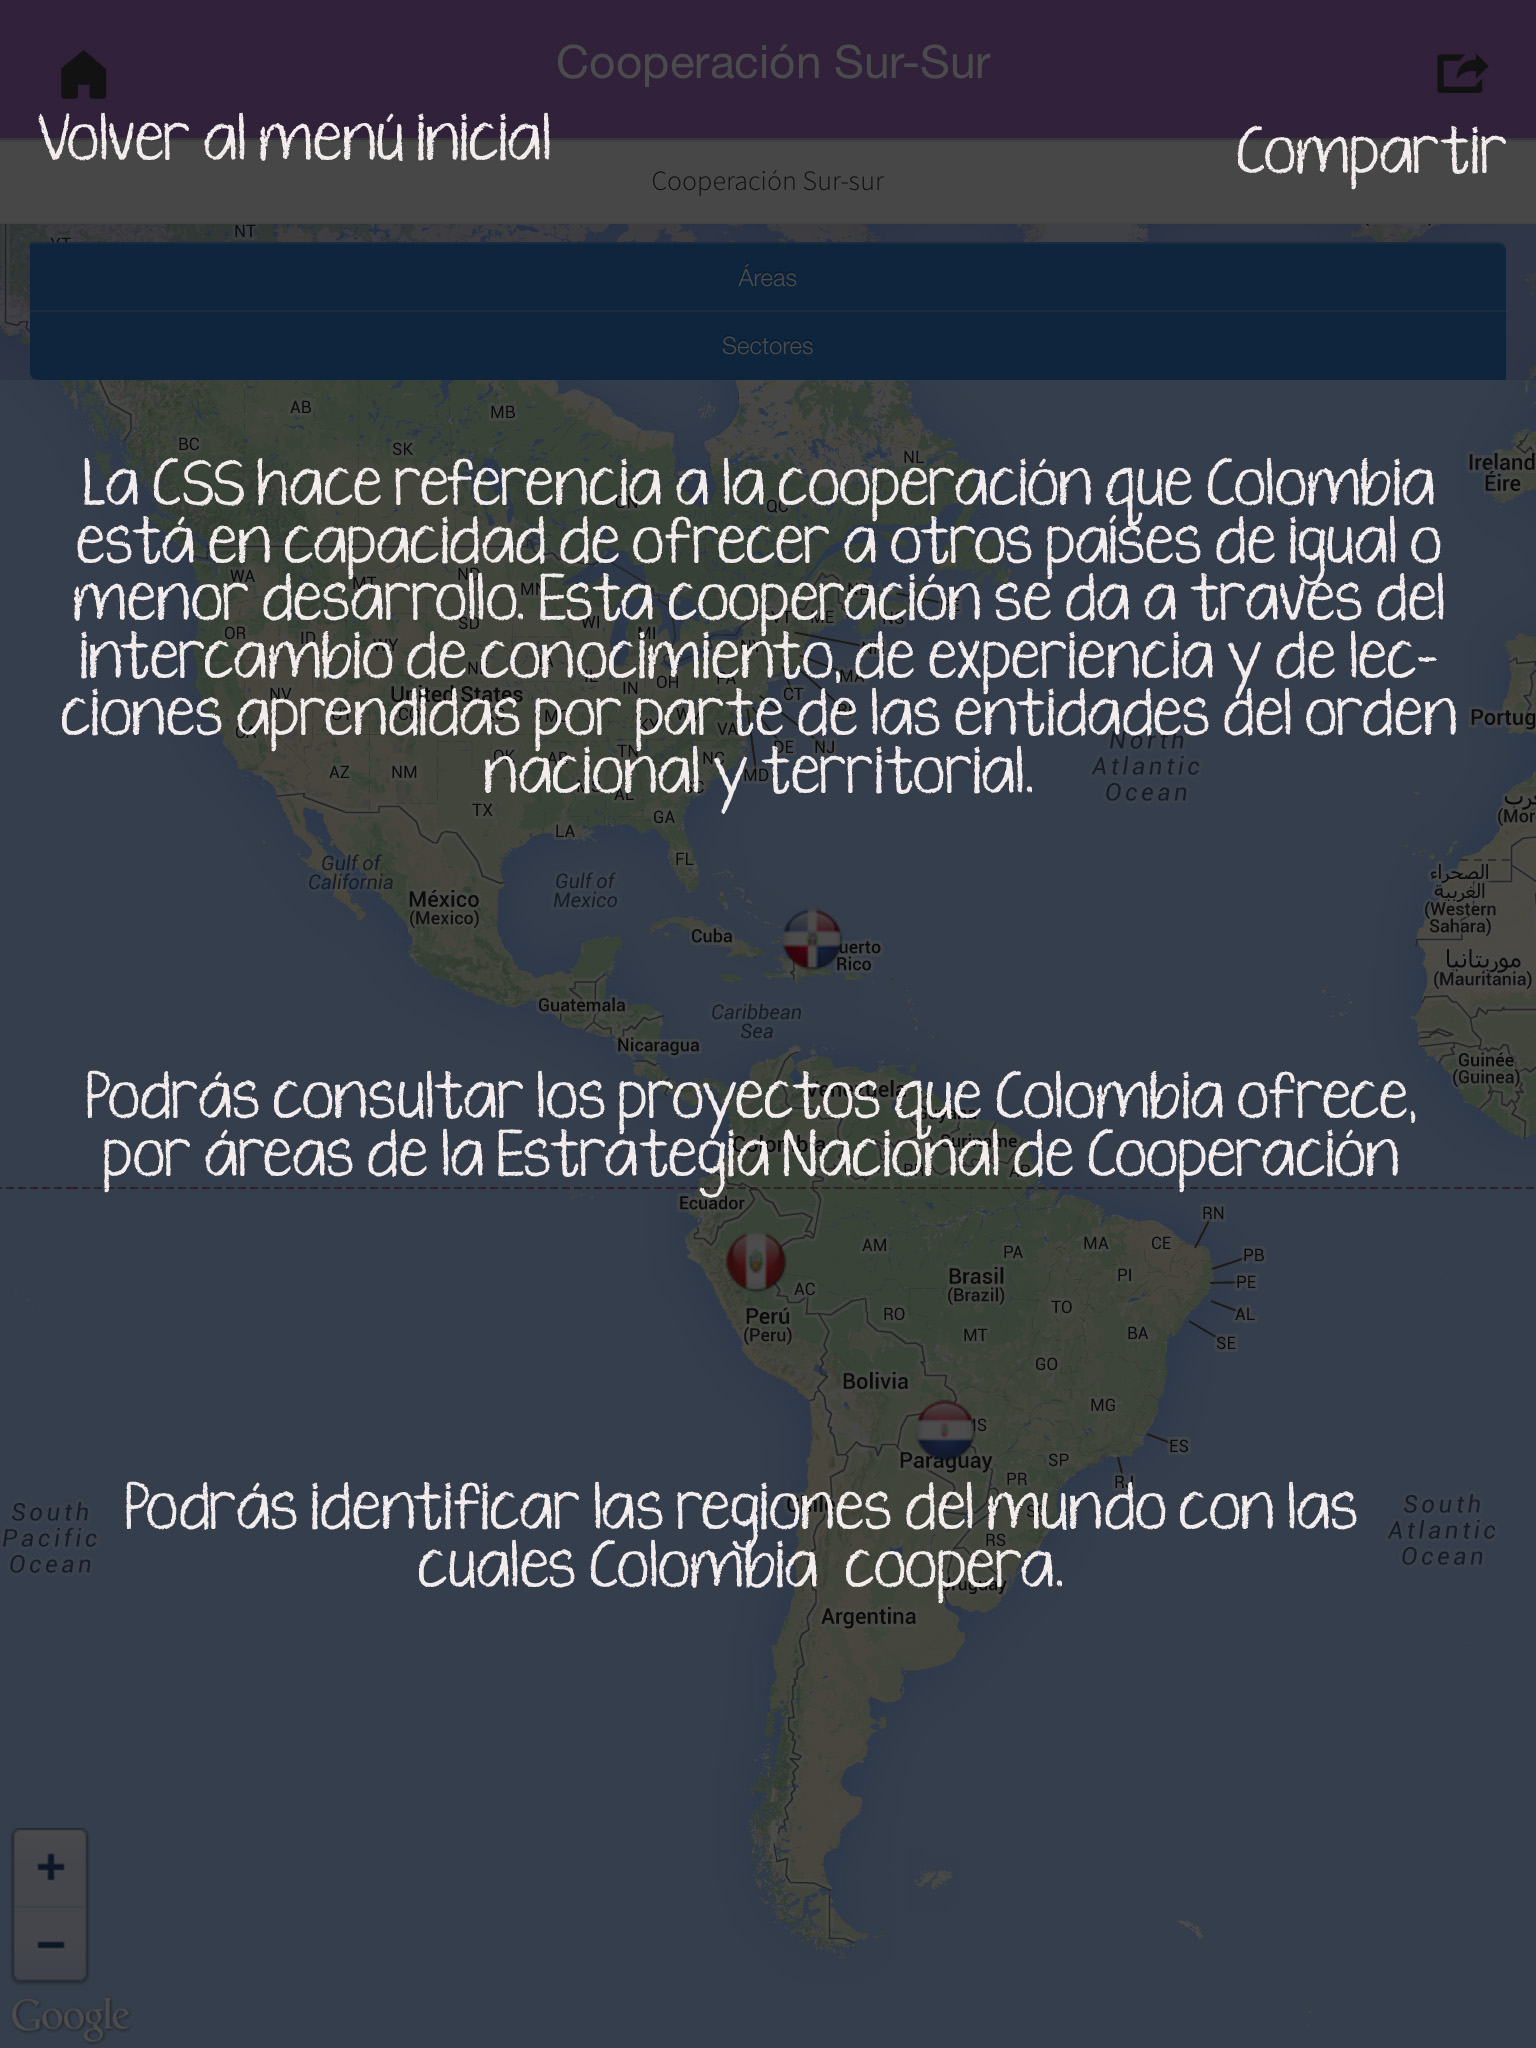
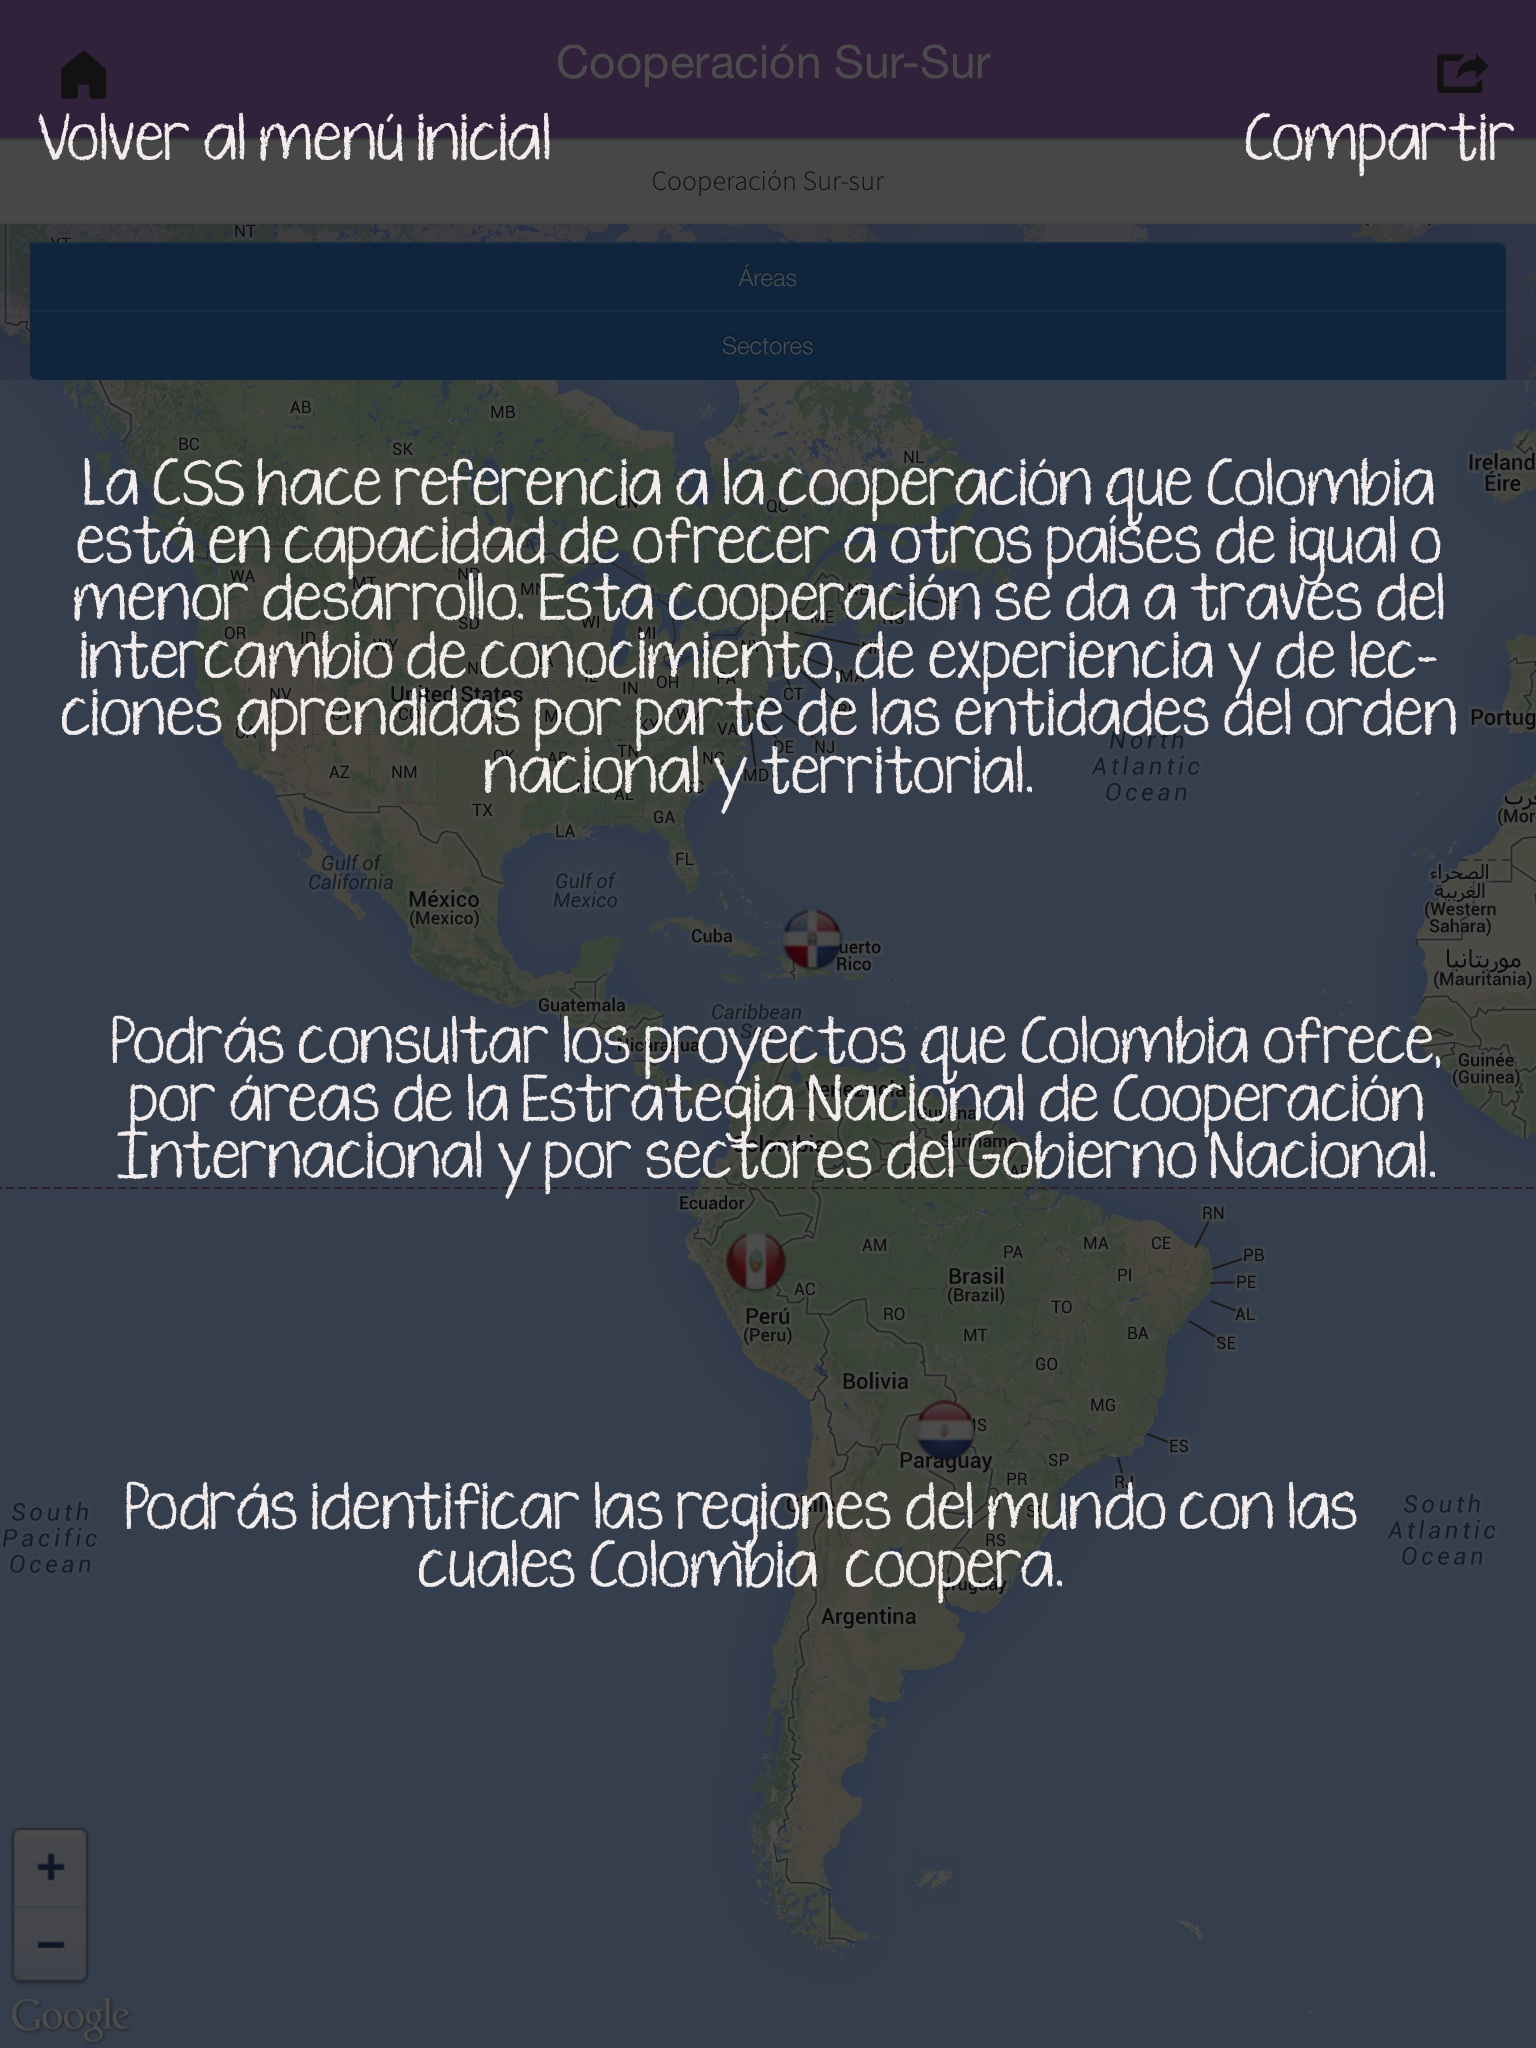
Ayudas, y ajuste menu

Changed region(s): [[0.0625, 0.5, 0.9375, 0.5938], [0.8125, 0.0625, 0.9688, 0.0938]]

diff --git a/js/app/collections/cooperacion.js b/js/app/collections/cooperacion.js
@@ -52,7 +52,7 @@ define(function(require) {
             this.baseapc.execute(self.sql, model, function(data) {
                 self.reset(data);
                 deferred.resolve();
-                setTimeout(self.initMapMarkersWithDb, 2000);
+                setTimeout(self.initMapMarkersWithDb, 3000);
             });
             return deferred.promise();
         },

diff --git a/css/custom.css b/css/custom.css
@@ -35,6 +35,14 @@ h2 {
     }
     #logos {
         margin-left: 0%;
+    }    
+}
+@media (max-width:320px) {
+    /* smartphones, iPhone, portrait 480x320 phones */ 
+    #demandCollapse button, #cooperationCollapse button {
+        min-height: 25px;
+        height: 25px;
+        line-height: 4px;
     }
 }
 @media (min-width:481px) { 
